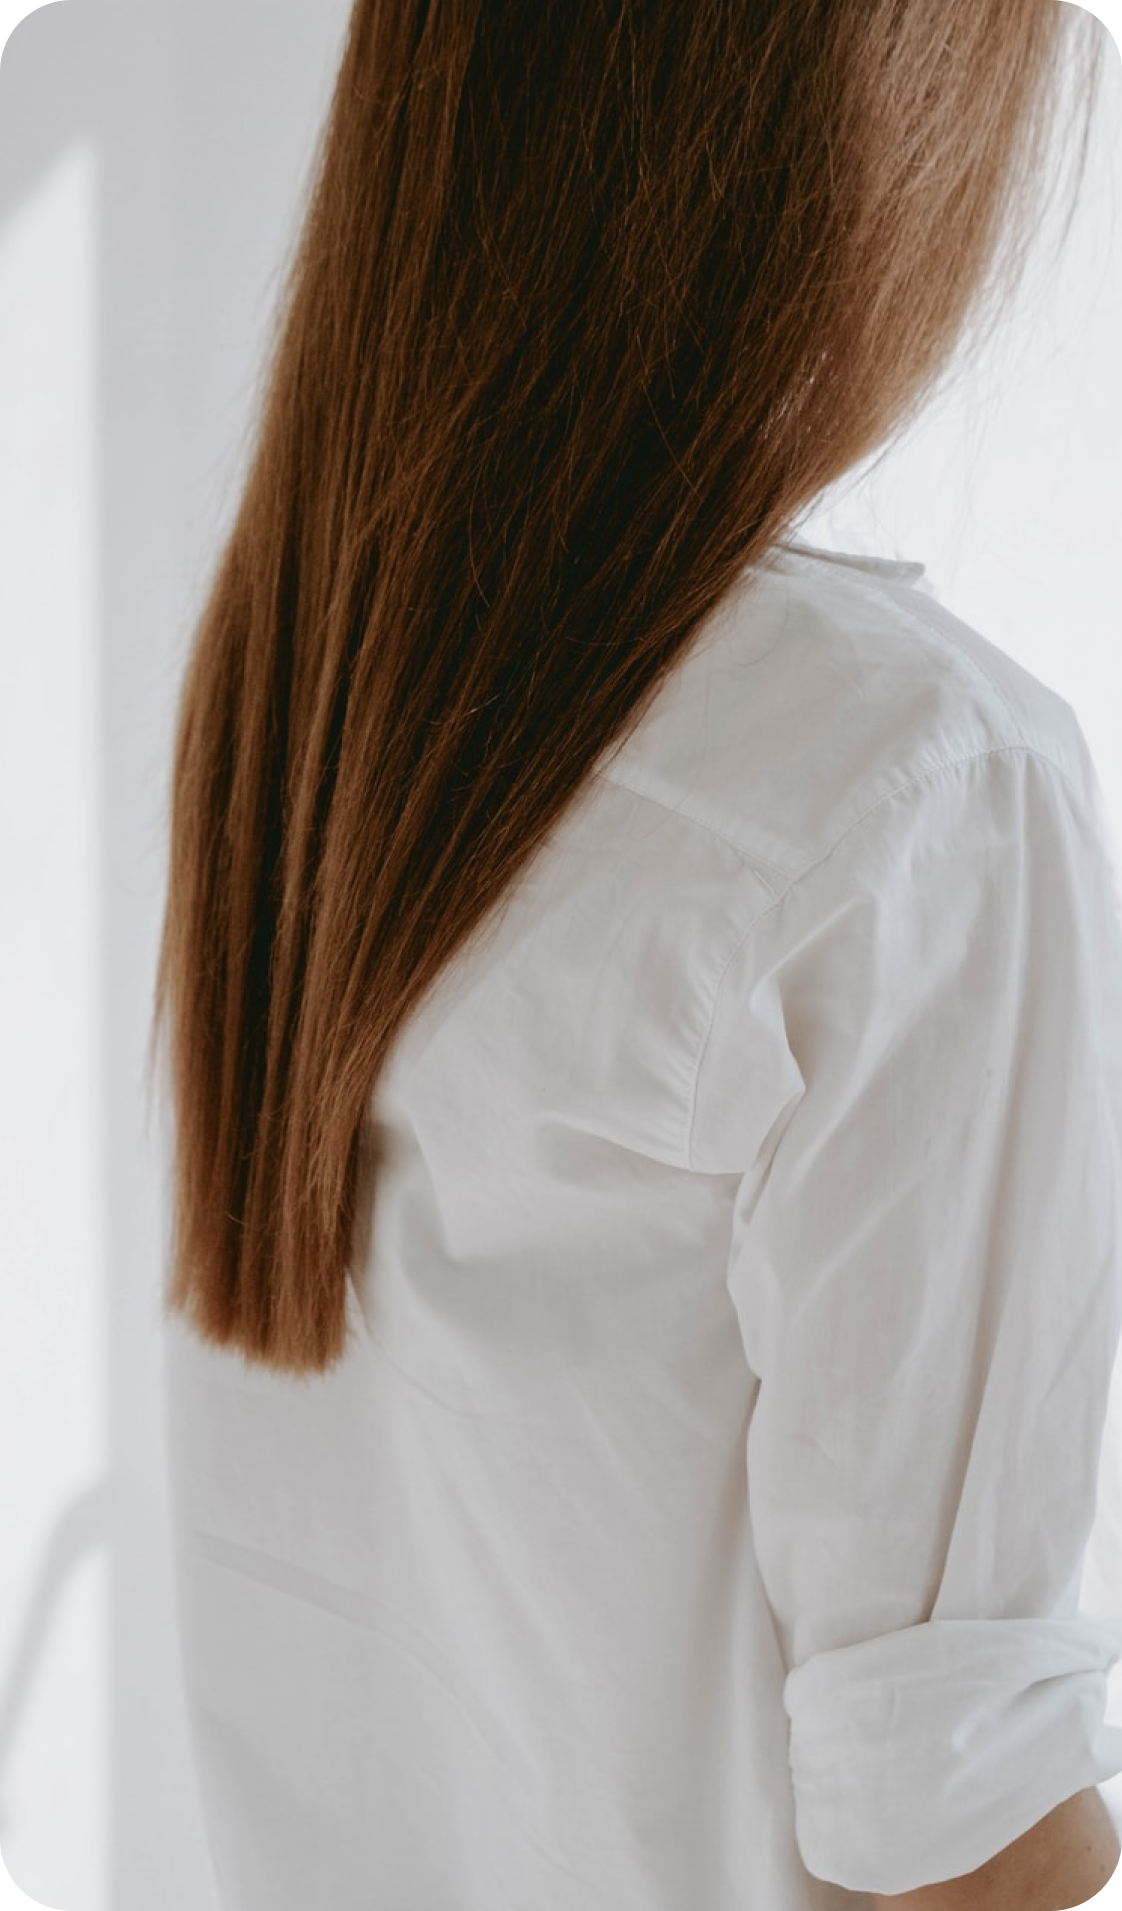
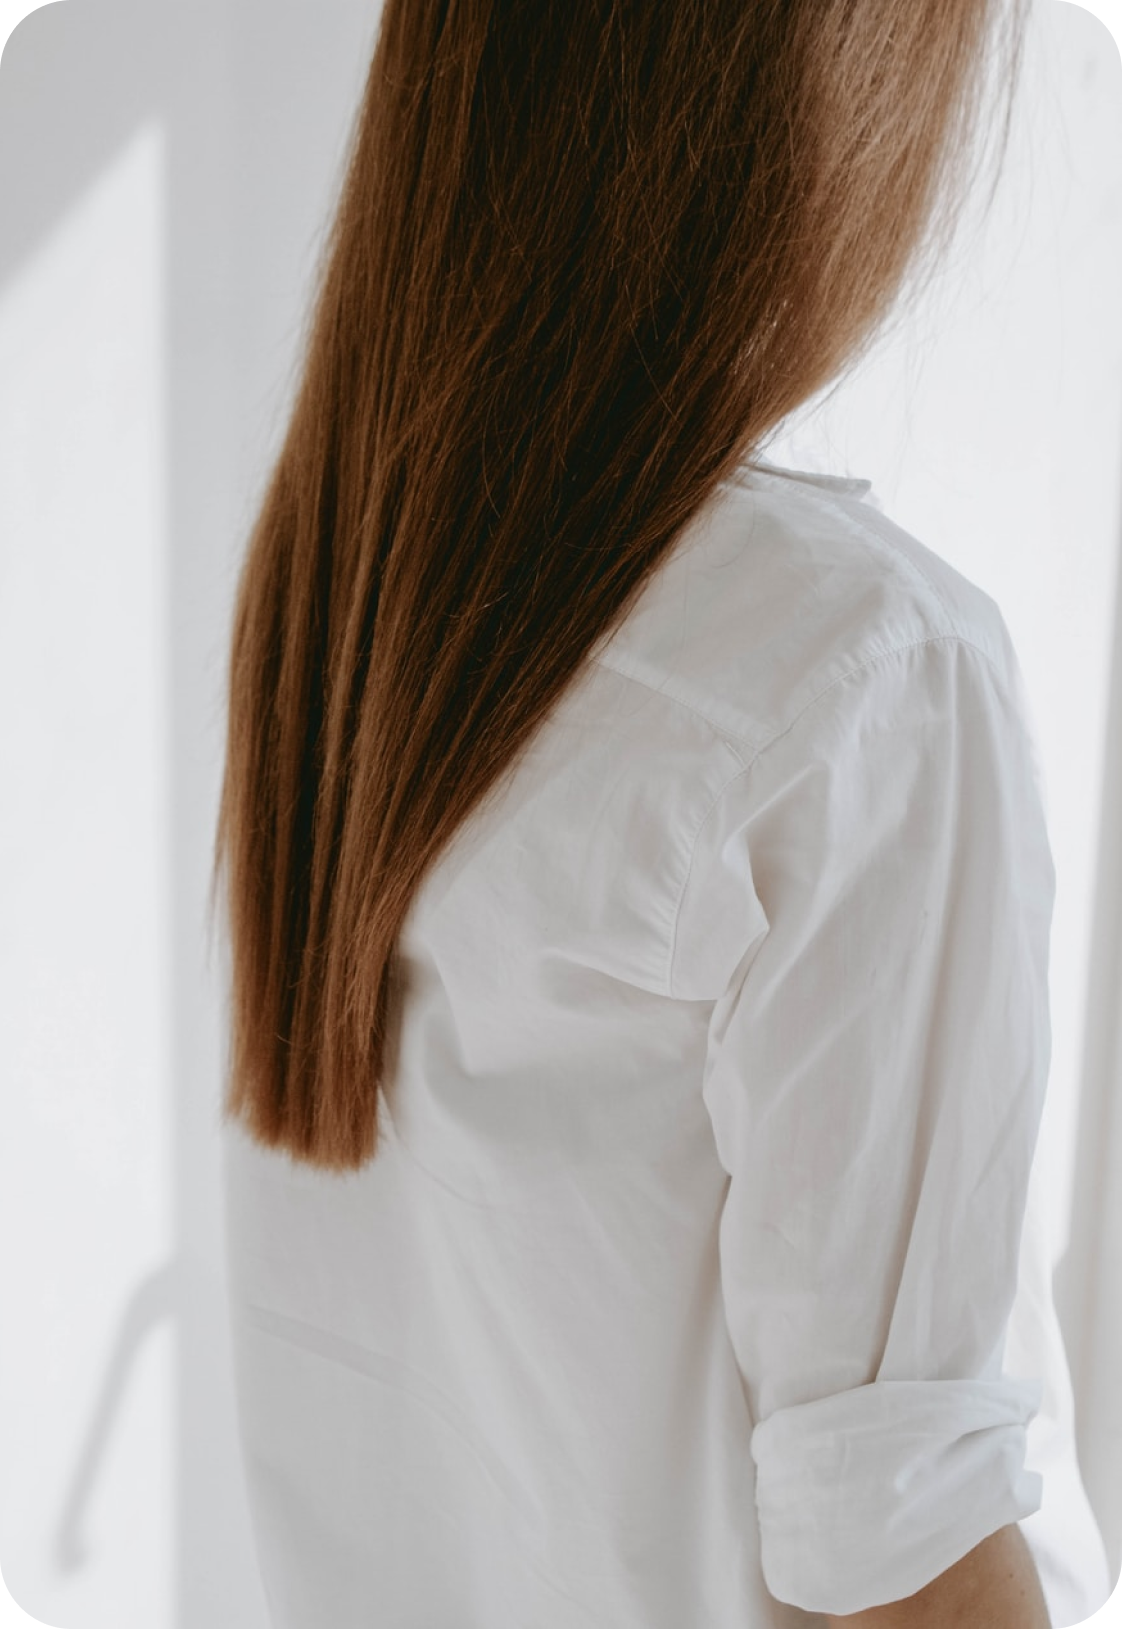
last update

diff --git a/sketch.js b/sketch.js
@@ -16,8 +16,8 @@ extraFont = loadFont('assets/Montserrat-ExtraBold.ttf');
 function setup() {
   createCanvas(390,844);
 
-  link = createA('myclient.html', '');
-  link2 = createA('appointments_menu.html', '');
+  link = createA('appointments_menu.html', '');
+  link2 = createA('myclients.html', '');
 }
 
 function draw() {
@@ -95,7 +95,7 @@ function draw() {
   img.position(270, 286);
   img.size(100,24);
 
-  img = createImg('assets/menu.png').parent(link2);
+  img = createImg('assets/menu.png').parent(link);
   img.position(27, 28);
   img.size(30,30);
 

diff --git a/sketch_camera.js b/sketch_camera.js
@@ -19,12 +19,12 @@ function setup() {
 function draw() {
   background(206,138,146);
 
-  image(img4,8,16,374,637);
-  image(turn,318,698,48,48);
+  image(img4,8,16,374,543);
+  image(turn,318,608,48,48);
 
 
   img = createImg('assets/shoot.png').parent(link2);
-  img.position(162, 689);
+  img.position(162, 599);
   img.size(66,66);
 
 }

diff --git a/sketch_newformulas.js b/sketch_newformulas.js
@@ -39,8 +39,8 @@ function draw() {
   rect(20,76,1,16,2);
 
   image(close,336,19,34,34);
-  image(keyboard,0,477,390,303);
-  image(check,310,397,60,60);
+  image(keyboard,0,397,390,303);
+  image(check,310,317,60,60);
 
   img = createImg('assets/camera.png').parent(link2);
   img.position(286, 19);

diff --git a/sketch_myclients_menu.js b/sketch_myclients_menu.js
@@ -16,7 +16,7 @@ extraFont = loadFont('assets/Montserrat-ExtraBold.ttf');
 function setup() {
   createCanvas(390,844);
 
-  link = createA('myclientprofile.html', '');
+  link = createA('index.html', '');
   link2 = createA('myclients.html', '');
 }
 

diff --git a/sketch_newformulas_edited.js b/sketch_newformulas_edited.js
@@ -44,7 +44,7 @@ function draw() {
 
 
   img = createImg('assets/check.png').parent(link2);
-  img.position(310, 696);
+  img.position(310, 605);
   img.size(60,60);
 
 }
